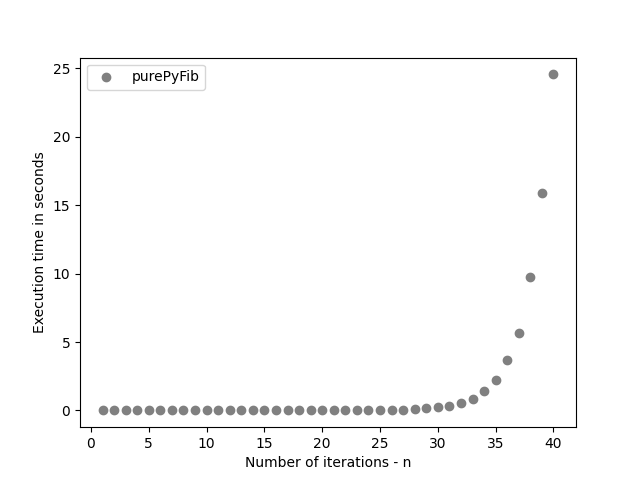
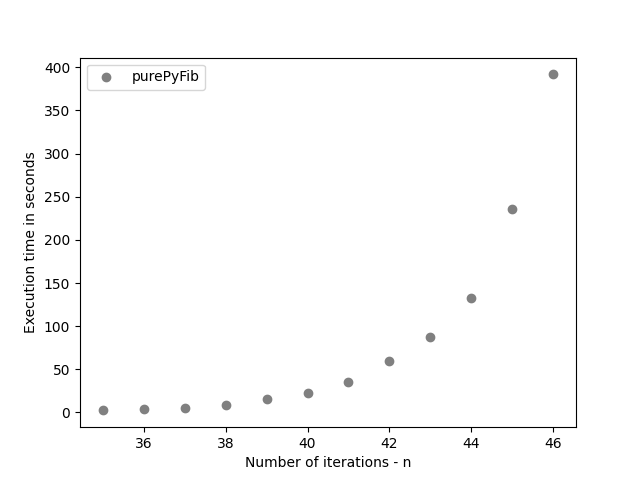
Final commit

diff --git a/Pyhton_Assignments/MA4/MA4_files/MA4.py b/Pyhton_Assignments/MA4/MA4_files/MA4.py
@@ -111,11 +111,12 @@ def fib(n):
     return f.fib()
 
 
-def fn_timing_on_fib(fn_fib, n, ranging=True):
+def fn_timing_on_fib(fn_fib, frm, to, ranging=True):
     time_stamps = []
-    k = 1
+    k = frm
+    n = to
     if not ranging:
-        k = n
+        k = to
     for e in range(k, n + 1):
         t1_start = perf_counter()
         fn_fib(e)
@@ -184,22 +185,21 @@ def main():
 
     
     # for the sake of clarity first c++ integration
-    print("Fib(47) form C++ val is  ",fib(47))
-    
+    print("Fib(47) from C++-Py Integration value is  ",fib(47))
     '''
     import time
     print("\n **** Numba Py timings ****")
-    timeStamps_numba = fn_timing_on_fib(fib_numba_python, 40)
+    timeStamps_numba = fn_timing_on_fib(fib_numba_python, 35 ,46)
     plot_timings(timeStamps_numba, "numbPyFib")
     time.sleep(1)
 
     print("\n **** C++ Integratiopn timinings ****")
-    timeStamps_cpp = fn_timing_on_fib(fib, 40)
+    timeStamps_cpp = fn_timing_on_fib(fib, 35 ,46)
     plot_timings(timeStamps_cpp, "cppFib")
     time.sleep(1)
 
     print("\n **** Pure Python timinings ****")
-    timeStamps_purepy = fn_timing_on_fib(fib_pure_python, 40)
+    timeStamps_purepy = fn_timing_on_fib(fib_pure_python, 35 ,46)
     plot_timings(timeStamps_purepy, "purePyFib")
 
     plot_allinOne(timeStamps_purepy, timeStamps_numba, timeStamps_cpp)
